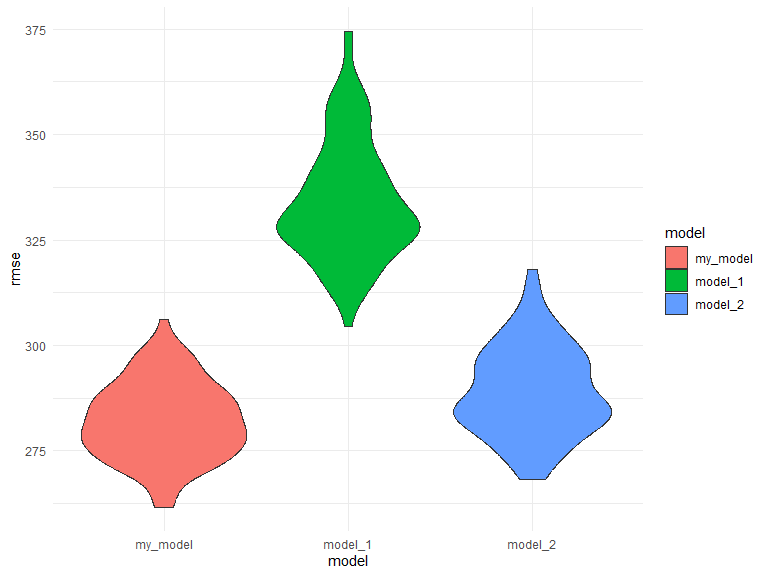
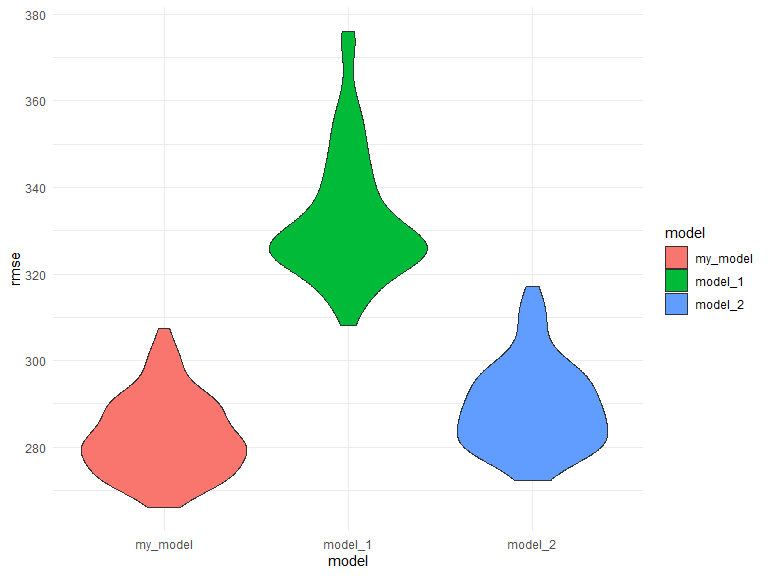
prob 3

diff --git a/p8105_hw6_sz3213.md b/p8105_hw6_sz3213.md
@@ -133,15 +133,15 @@ c(LB_r, UB_r)|>
   knitr::kable(digits = 3)
 ```
 
-|       |     x |
-|:------|------:|
-| 2.5%  | 0.889 |
-| 97.5% | 0.941 |
+|       |    x |
+|:------|-----:|
+| 2.5%  | 0.89 |
+| 97.5% | 0.94 |
 
 The distribution of $\hat{r^2}$ is slightly left-skewed, with the range
 from 0.86 to 0.96 and the mode around 0.92. The 2.5% and 97.5% quantiles
-of the distribution are 0.889 and 0.941, respectively, and the
-corresponding 95% confidence interval is (0.889, 0.941).
+of the distribution are 0.89 and 0.94, respectively, and the
+corresponding 95% confidence interval is (0.89, 0.94).
 
 ``` r
 bootstrap_results |> 
@@ -162,14 +162,14 @@ c(LB_b, UB_b)|>
 
 |       |      x |
 |:------|-------:|
-| 2.5%  | -8.875 |
-| 97.5% | -4.586 |
+| 2.5%  | -8.885 |
+| 97.5% | -4.590 |
 
 The distribution of $log(\hat{\beta_1} * \hat{\beta_2})$ is heavily
 left-skewed, with the range from -12 to -4 and the mode around -5.5. The
-2.5% and 97.5% quantiles of the distribution are -8.875 and -4.586,
-respectively, and the corresponding 95% confidence interval is (-8.875,
--4.586).
+2.5% and 97.5% quantiles of the distribution are -8.885 and -4.59,
+respectively, and the corresponding 95% confidence interval is (-8.885,
+-4.59).
 
 ## Problem 3
 
@@ -177,3 +177,114 @@ respectively, and the corresponding 95% confidence interval is (-8.875,
 bw_df <-
   read_csv("data/birthweight.csv", na = c("", "."))
 ```
+
+data cleaning
+
+``` r
+bw_df_clean <-
+  bw_df |> 
+  mutate(
+    babysex = as.factor(babysex),
+    frace = as.factor(frace),
+    malform = as.factor(malform),
+    mrace = as.factor(mrace)
+  ) |> 
+  select(bwt, everything())
+```
+
+``` r
+hypo_model = lm(bwt ~ bhead + blength + delwt + gaweeks + malform + smoken , data = bw_df_clean)
+summary(hypo_model) |> broom::tidy()
+```
+
+    ## # A tibble: 7 × 5
+    ##   term        estimate std.error statistic   p.value
+    ##   <chr>          <dbl>     <dbl>     <dbl>     <dbl>
+    ## 1 (Intercept) -6223.      95.5     -65.2   0        
+    ## 2 bhead         135.       3.50     38.7   2.77e-281
+    ## 3 blength        78.7      2.07     37.9   4.57e-272
+    ## 4 delwt           2.09     0.200    10.5   2.37e- 25
+    ## 5 gaweeks        14.6      1.49      9.77  2.68e- 22
+    ## 6 malform1       37.3     73.1       0.511 6.10e-  1
+    ## 7 smoken         -2.27     0.583    -3.90  9.77e-  5
+
+``` r
+# because malform has p-value > 0.05, we remove it from the model
+my_model = lm(bwt ~ bhead + blength + delwt + gaweeks + smoken , data = bw_df_clean)
+summary(my_model) |> broom::tidy()
+```
+
+    ## # A tibble: 6 × 5
+    ##   term        estimate std.error statistic   p.value
+    ##   <chr>          <dbl>     <dbl>     <dbl>     <dbl>
+    ## 1 (Intercept) -6223.      95.5      -65.2  0        
+    ## 2 bhead         135.       3.50      38.7  1.92e-281
+    ## 3 blength        78.7      2.07      37.9  4.51e-272
+    ## 4 delwt           2.09     0.200     10.5  2.20e- 25
+    ## 5 gaweeks        14.6      1.49       9.76 2.74e- 22
+    ## 6 smoken         -2.26     0.582     -3.89 1.04e-  4
+
+I first hypothesized factors that are likely contributing to children’s
+birth weights as the primary model. I included six predictors: `bhead`,
+`blength`, `delwt`, `gaweeks`, `malform`, and `smoken`. Then I performed
+the backword elimination to examine if all predictors are significant.
+The coefficient of `malform` variable has the greatest p-value which is
+0.61, and this value is greater than the threshold of $\alpha$ equals
+0.05, so I excluded it from the model and refit the rest predictors. The
+re-fitted model have five predictors and all coefficients have p-values
+less than 0.05. Thus, I will keep all predictors and conclude that the
+final model includes `bhead`, `blength`, `delwt`, `gaweeks`, and
+`smoken`.
+
+``` r
+bw_df_clean |> 
+  add_predictions(my_model) |> 
+  add_residuals(my_model) |> 
+  ggplot(aes(x = pred, y = resid)) +
+  geom_point(alpha = 0.5) +
+  geom_smooth() +
+  labs(title = "Model residuals against fitted values")
+```
+
+![](p8105_hw6_sz3213_files/figure-gfm/residuals%20-%20fitted%20values-1.png)<!-- -->
+
+``` r
+# cv
+model_1 = lm(bwt ~ blength + gaweeks, data = bw_df_clean)
+model_2 = lm(bwt ~ bhead + blength + babysex + 
+               bhead * blength + bhead * babysex + blength * babysex, data = bw_df_clean)
+cv_df <-
+  crossv_mc(bw_df_clean, 100) 
+
+cv_df <-  
+  cv_df |> 
+  mutate(
+    my_model  = map(train, \(df) lm(bwt ~ bhead + blength + delwt + gaweeks + smoken, 
+                                    data = df)),
+    model_1  = map(train, \(df) lm(bwt ~ blength + gaweeks, data = df)),
+    model_2  = map(train, \(df) lm(bwt ~ bhead + blength + babysex + 
+               bhead * blength + bhead * babysex + blength * babysex, data = df))) |> 
+  mutate(
+    rmse_my_model = map2_dbl(my_model, test, \(mod, df) rmse(model = mod, data = df)),
+    rmse_model_1 = map2_dbl(model_1, test, \(mod, df) rmse(model = mod, data = df)),
+    rmse_model_2 = map2_dbl(model_2, test, \(mod, df) rmse(model = mod, data = df)))
+```
+
+``` r
+cv_df |> 
+  select(starts_with("rmse")) |> 
+  pivot_longer(
+    everything(),
+    names_to = "model", 
+    values_to = "rmse",
+    names_prefix = "rmse_") |> 
+  mutate(model = fct_inorder(model)) |> 
+  ggplot(aes(x = model, y = rmse, fill = model)) + geom_violin()
+```
+
+![](p8105_hw6_sz3213_files/figure-gfm/violin%20plot-1.png)<!-- -->
+
+According to the violin plot, my_model has the lowest rmse, and model_2
+has a slightly higher rmse than my_model. Model_1 has a much higher rmse
+compared to the other models, which implies the predictions made using
+this model could be less accurate than the other two.
